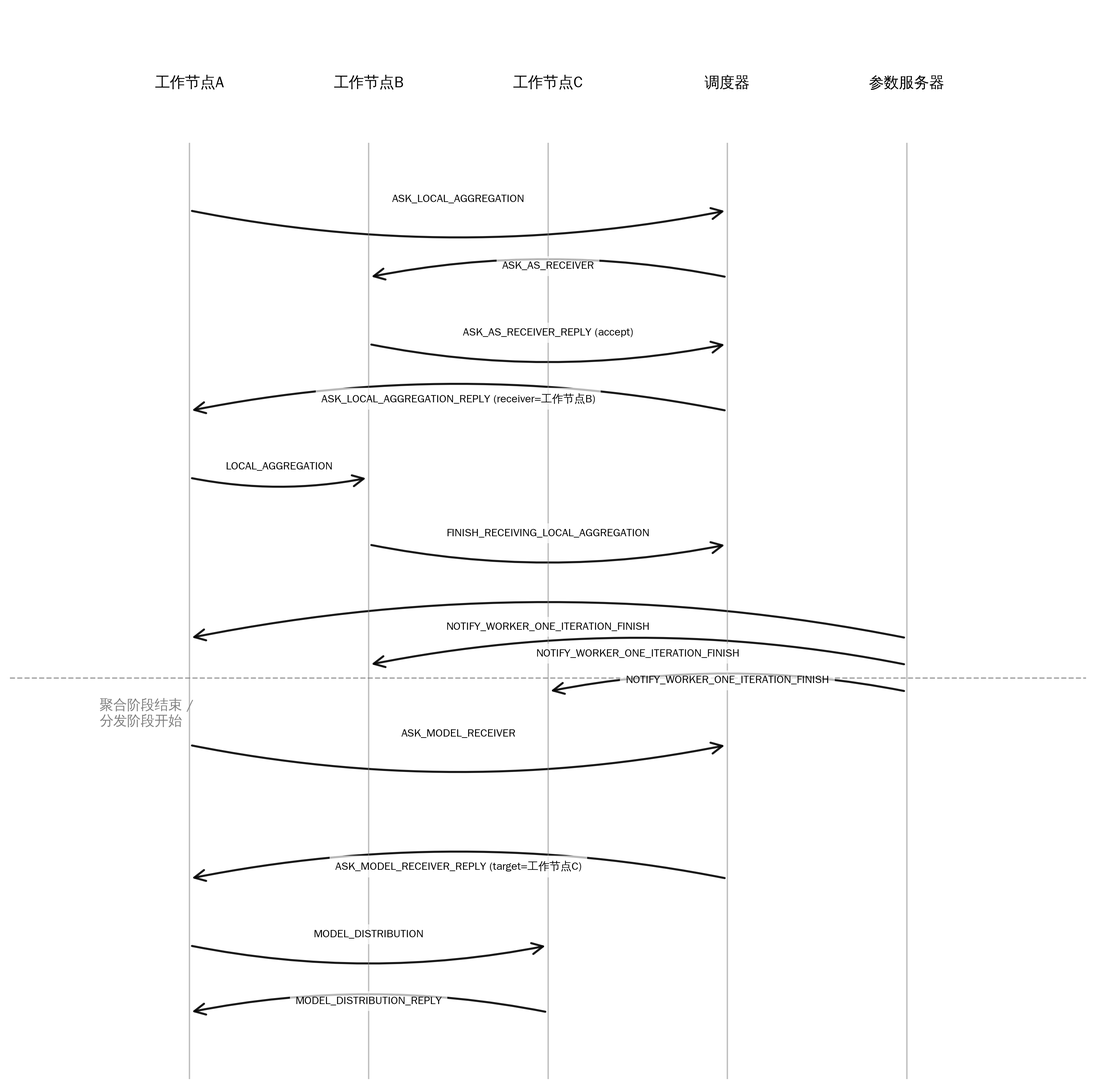
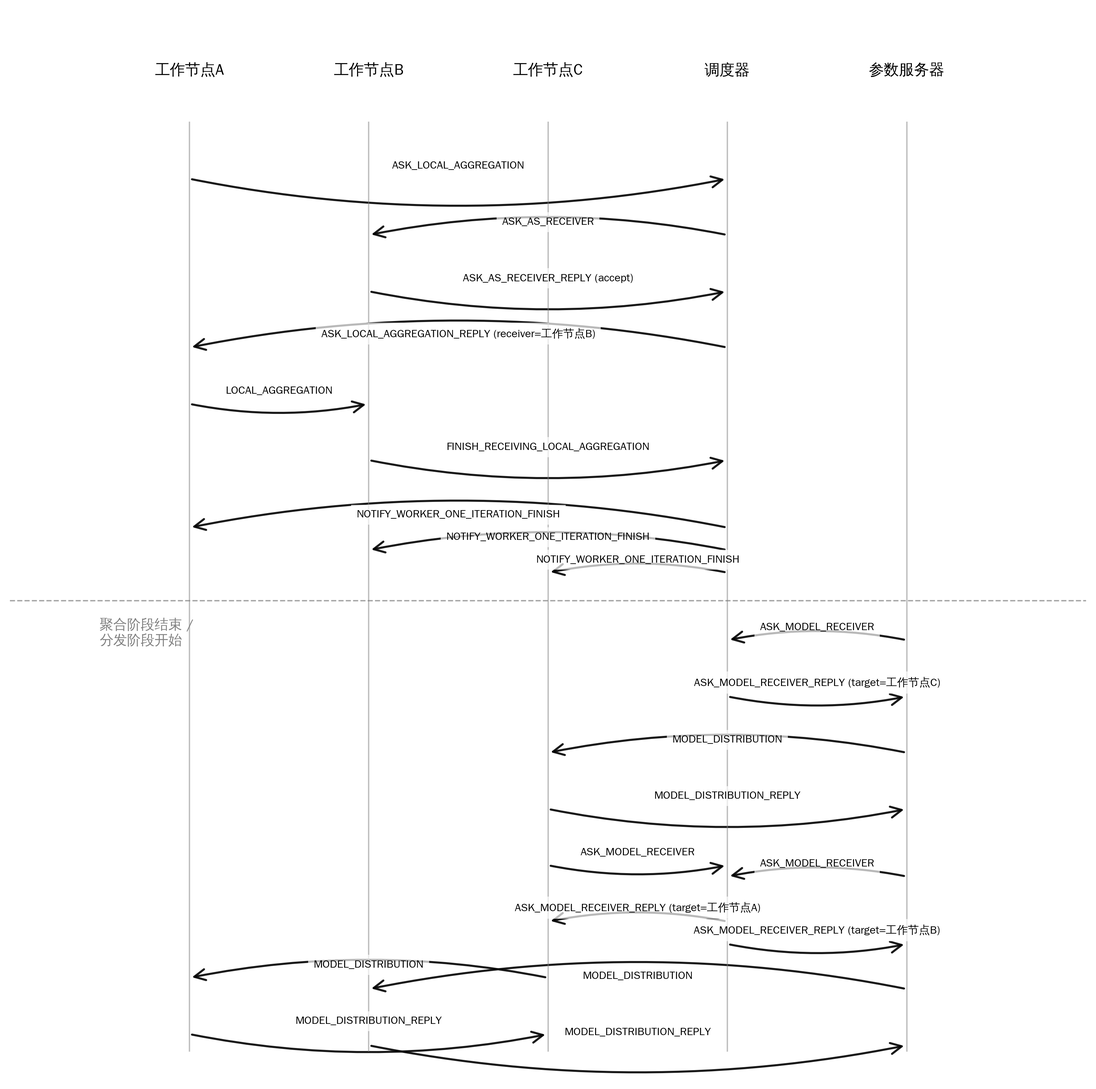
chore

diff --git a/tutorial.tex b/tutorial.tex
@@ -110,11 +110,11 @@
 	\nomchn{GDPR}{General Data Protection Regulation}{通用数据保护条例}
 	\nomchn{CCPA}{California Consumer Privacy Act}{加州消费者隐私法案}
 
-	随着人工智能与大数据技术的快速发展，机器学习模型在医疗、金融与工业互联网等领域得到广泛应用。近年来的研究与工程实践表明，模型性能的持续提升通常依赖于更大规模的模型参数与更丰富的训练数据，这使得模型训练在计算、存储与时间成本方面的需求显著增长。面对参数量与数据规模持续扩张的趋势，单机训练逐渐难以满足算力、显存与训练时长等方面的要求。在此背景下，分布式机器学习通过在多计算节点之间进行并行计算与资源协同，以提升训练吞吐并缩短迭代周期，已成为训练大规模模型的重要技术路径。然而，传统分布式训练在很多场景下仍需在节点间传输原始数据、特征或中间表示，在跨域协作时难以避免数据隐私泄露与合规风险。
+	随着人工智能与大数据技术的快速发展，机器学习在医疗、金融与工业互联网等领域得到广泛应用。近年来的研究与工程实践表明，模型性能的持续提升通常依赖于更大的模型与更丰富的训练数据，这使得模型训练在计算、存储与时间成本方面的需求显著增长。面对参数量与数据规模持续扩张的趋势，单机训练逐渐难以满足算力、显存与训练时长等方面的要求。在此背景下，分布式机器学习通过在多计算节点之间进行并行计算与资源协同，以提升训练吞吐并缩短迭代周期，已成为训练大规模模型的重要技术路径。然而，传统分布式训练在很多场景下仍需在节点间传输原始数据、特征或中间表示，在跨域协作时难以避免数据隐私泄露与合规风险。
 
 	为应对日益严格的数据隐私保护与数据合规要求，联邦学习（FL）应运而生。FL是一种面向隐私保护的分布式学习范式，其核心思想是“数据不出本地”：各参与方在本地设备或机构内完成模型训练，仅与服务器（或其他参与方）交换模型更新（如梯度、权重或权重更新），并通过聚合机制实现全局模型迭代\cite{fedavg-fedsgd}。该范式在不直接共享原始数据的前提下支持跨机构、跨设备的协同学习，能够更好地满足数据合规约束，例如欧盟GDPR与CCPA等法规要求\cite{GDPR,CCPA}，并促进多方数据价值的安全释放。
 
-	尽管联邦学习在隐私保护方面具有优势，但其系统效率在很大程度上受限于通信效率。典型的联邦学习训练通常包含“本地训练——模型同步/聚合”的迭代流程；在跨设备联邦学习场景中，终端数量庞大且网络条件高度异构，模型更新需要通过蜂窝网络或Wi-Fi等无线网络进行传输。随着模型体量增大以及同步频率提升，通信带宽受限、网络时延、丢包与抖动等问题会显著增加每轮训练的同步开销，并进一步引发尾部时延放大、聚合等待时间增长、有效吞吐下降等现象，从而降低整体训练效率并影响收敛稳定性。因此，在保证模型精度与收敛性的前提下，如何有效降低通信开销、提升通信阶段的鲁棒性与可扩展性，已成为联邦学习与分布式机器学习落地应用中的关键挑战之一。
+	尽管联邦学习在隐私保护方面具有优势，但其系统效率在很大程度上受限于通信效率。典型的联邦学习训练通常包含“本地训练——模型聚合/同步”的迭代流程；在跨设备联邦学习场景中，终端数量庞大且网络条件高度异构，模型更新需要通过蜂窝网络或Wi-Fi等无线网络进行传输。随着模型体量增大以及同步频率提升，通信带宽受限、网络时延、丢包与抖动等问题会显著增加每轮训练的同步开销，并进一步引发尾部时延放大、聚合等待时间增长、有效吞吐下降等问题，从而降低整体训练效率并影响收敛耗时的稳定性。因此，在保证模型精度与收敛性的前提下，如何有效降低通信开销、提升通信阶段的鲁棒性与可扩展性，已成为联邦学习与分布式机器学习落地应用中的关键挑战之一。
 
 	针对上述问题，开展面向联邦学习的高效通信机制与网络流量调度策略研究具有重要意义。一方面，通信算法层面的改进（例如参数压缩、量化、稀疏化与误差反馈等）能够减少每轮迭代的传输数据量，从而降低总通信开销并缓解带宽压力。另一方面，仅依赖“减少数据量”往往不足以应对真实系统中的动态网络环境：终端设备的带宽、时延与在线状态随时间变化，且不同节点在算力与能耗约束方面存在显著差异。因此，有必要进一步研究自适应通信调度策略，即根据网络状态与节点负载的在线观测或历史统计信息，动态决定“谁参与、何时同步、传输多少、如何分配带宽/选择链路、以及如何协调聚合节奏”等关键决策。其目标在于降低达到目标精度的训练时延，提升系统吞吐，并增强训练过程的稳定性与鲁棒性。
 
@@ -188,7 +188,7 @@
 
 	\subsection{FedAvg}
 
-	FedAvg是联邦学习中最具代表性的基线算法之一，其核心思想是通过增加本地训练步数来降低全局同步频率：工作节点在本地执行多步SGD更新后，再将本地模型参数（或参数差分）上传至参数服务器进行聚合\cite{fedavg-fedsgd}。相较于FedSGD，FedAvg以“更多本地计算换取更少通信”的方式显著减少通信开销。
+	FedAvg是联邦学习中最具代表性的算法之一，其核心思想是通过增加本地训练步数来降低全局同步频率：工作节点在本地执行多步SGD更新后，再将本地模型参数（或参数差分）上传至参数服务器进行聚合\cite{fedavg-fedsgd}。相较于FedSGD，FedAvg以“更多本地计算换取更少通信”的方式显著减少通信开销。
 
 	沿用与FedSGD相同的符号体系：设第$t$轮全局模型为$W_t$，工作节点$k$的本地数据量为$n_k$，总数据量$n=\sum_{k=1}^{N}n_k$。节点$k$基于本地数据集$\mathcal{D}_k$从$W_t$出发执行$K$步随机梯度下降，得到更新后的本地模型参数$w_{t+1}^{(k)}$。FedAvg的训练流程可概括为：
 
@@ -292,7 +292,7 @@
 
 	针对上述问题，本章首先分析TCP拥塞控制在DML和FL场景中的局限性，指出现有机制难以适配同步通信模式。随后，本文在应用层（TCP上层）设计并实现一种轻量级拥塞控制算法。该算法以模型聚合的端到端完成时间为反馈信号，动态调整每个节点允许同时接收数据的节点数量（即并发接收数）。通过将拥塞控制提升至应用层，算法能够直接感知训练迭代的同步边界，并利用历史聚合时间的统计信息进行自适应调节，从而在避免网络拥塞的同时最大化通信效率。
 
-	本章内容组织如下：\ref{sec:tcp-problems}节介绍TCP拥塞控制在DML和FL中存在的问题；\ref{sec:tcp-solution}节阐述如何在TCP上层实现拥塞控制；\ref{sec:tcp-experiments}节通过对比实验评估本方法的有效性；最后，\ref{sec:tcp-summary}节对本章进行小结。
+	本章内容组织如下：\ref{sec:tcp-problems}节介绍TCP拥塞控制在DML和FL中存在的问题；\ref{sec:tcp-solution}节阐述如何在TCP上层实现拥塞控制；\ref{sec:tcp-experiments}节和\ref{sec:tcp-experiments-analysis}通过对比实验评估本方法的有效性；最后，\ref{sec:tcp-summary}节对本章进行小结。
 
 	\section{DML和FL中TCP拥塞控制问题概述}
 	\label{sec:tcp-problems}
@@ -505,7 +505,7 @@
 
 	\begin{itemize}
 		\item \textbf{实验A}：使用原始TCP传输，工作节点收到全局模型后立即开始上传更新。该设置模拟理想计算速度，旨在引发最大程度的网络拥塞。
-		\item \textbf{实验B}：工作节点在收到全局模型后，随机等待0～10s再开始上传，模拟实际训练中计算时间的不确定性，且保证不同实验每轮等待时间分布一致。该设置使发送流量分散，减轻拥塞。
+		\item \textbf{实验B}：工作节点在收到全局模型后，随机等待0～10秒再开始上传，模拟实际训练中计算时间的不确定性，且保证不同实验每轮等待时间分布一致。该设置使发送流量分散，减轻拥塞。
 		\item \textbf{实验C}：在实验A的基础上，服务器端启用本章提出的上层拥塞控制算法，动态调整并发接收数$R$。
 		\item \textbf{实验D}：在实验B的基础上启用本章算法，检验算法在计算时间随机波动场景下的适应性。
 	\end{itemize}
@@ -523,7 +523,7 @@
 	该指标直接对应训练过程从第一个节点开始发送到最后一个节点完成接收的实际经过时间，即训练的最终耗时。在对比实验中，$T_{\text{total}}$越小，表示通信加速效果越显著，整体训练效率越高。
 
 	\section{实验结果与分析}
-	\label{sec:tcp-experiments}
+	\label{sec:tcp-experiments-analysis}
 
 	\subsection{聚合时间对比}
 
@@ -555,15 +555,15 @@
 	从图\ref{fig:congestion}和表\ref{tab:stats}可以得出以下观察：
 
 	\begin{itemize}
-		\item \textbf{突发拥塞的影响}：实验A表现出剧烈的聚合时间波动，最大值达240.899s，标准差高达32.925。这是由于50个节点同时发送240MB数据，引发TCP拥塞控制频繁触发，窗口震荡导致部分节点传输严重延迟。
-		\item \textbf{随机延迟的缓解作用}：实验B通过引入随机等待，分散了发送流量，平均聚合时间降至134.276s，峰值也显著减小。这说明在原始方法中，延迟发送对通信效率有积极影响。
-		\item \textbf{本文算法的有效性}：实验C将平均聚合时间压缩至109.938s，降低为实验A的78.47\%，且标准差仅为22.744，稳定性大幅提升。算法通过动态调整并发接收数$R$，避免了瞬时过载，同时充分利用带宽。
-		\item \textbf{适应性验证}：实验D的平均聚合时间为110.026s，较实验B（134.276s）下降约18.06\%，且标准差仅为21.707，波动最小。实验D的总耗时（11545.293s）略高于实验C（11012.577s），这是由于实验D中引入了0～10s的随机等待延迟，这些等待时间累积导致总耗时的增加。但相较于实验B（14085.684s），实验D仍降低了约18.01\%，证明了算法在节点完成时间存在波动时，仍能有效缓解拥塞，显著提升通信效率。
+		\item \textbf{突发拥塞的影响}：实验A表现出剧烈的聚合时间波动，最大值达240.899秒，标准差高达32.925。这是由于50个节点同时发送240MB数据，引发TCP拥塞控制频繁触发，窗口震荡导致部分节点传输严重延迟。
+		\item \textbf{随机延迟的缓解作用}：实验B通过引入随机等待，分散了发送流量，平均聚合时间降至134.276秒，峰值也显著减小。这说明在原始方法中，延迟发送对通信效率有积极影响。
+		\item \textbf{本文算法的有效性}：实验C将平均聚合时间压缩至109.938秒，降低为实验A的78.47\%，且标准差仅为22.744，稳定性大幅提升。算法通过动态调整并发接收数$R$，避免了瞬时过载，同时充分利用带宽。
+		\item \textbf{适应性验证}：实验D的平均聚合时间为110.026秒，较实验B（134.276秒）下降约18.06\%，且标准差仅为21.707，波动最小。实验D的总耗时（11545.293秒）略高于实验C（11012.577秒），这是由于实验D中引入了0～10秒的随机等待延迟，这些等待时间累积导致总耗时的增加。但相较于实验B（14085.684秒），实验D仍降低了约18.01\%，证明了算法在节点完成时间存在波动时，仍能有效缓解拥塞，显著提升通信效率。
 	\end{itemize}
 
 	\subsection{累积分布分析}
 
-	图\ref{fig:congestion_cdf}展示了四组实验聚合时间的累积分布函数（CDF）。从图中可见，实验C和D的曲线整体左移，且更为陡峭，表明其聚合时间稳定在较低区间。例如，实验C中90\%的轮次聚合时间低于150s，而实验A中仅不到70\%达到该水平。
+	图\ref{fig:congestion_cdf}展示了四组实验聚合时间的累积分布函数（CDF）。从图中可见，实验C和D的曲线整体左移，且更为陡峭，表明其聚合时间稳定在较低区间。例如，实验C中90\%的轮次聚合时间低于150秒，而实验A中仅不到70\%的轮次达到该水平。
 
 	\begin{figure}[htbp]
 		\centering
@@ -578,7 +578,7 @@
 
 	\subsection{收敛速度影响}
 
-	虽然本实验未包含模型准确度，但聚合时间的缩短直接加速了每轮迭代，从而缩短整体训练时间。以100轮为例，实验C总聚合时间约为11012.577s，实验A则需14098.513s，仅用原耗时的78.11\%。在实际训练中，若计算时间占比较大，收益可能略有下降，但通信加速仍能带来明显收益。
+	虽然本实验未包含模型准确度，但聚合时间的缩短直接加速了每轮迭代，从而缩短整体训练时间。以100轮为例，实验C总聚合时间约为11012.577秒，实验A则需14098.513秒，仅用原耗时的78.11\%。在实际训练中，若计算时间占比较大，收益可能略有下降，但通信加速仍能带来明显收益。
 
 	\section{本章小结}
 	\label{sec:tcp-summary}
@@ -588,8 +588,8 @@
 	为验证算法有效性，设计了四组对比实验，涵盖有无计算延迟两种场景。实验结果表明：
 
 	\begin{itemize}
-		\item 在无计算延迟的极端突发流量下（实验A vs. 实验C），本文算法将平均聚合时间从140.107s降至109.938s（降低21.5\%），标准差从32.925降至22.744（降低30.9\%），总耗时减少21.9\%，显著缓解了TCP拥塞控制引发的性能抖动。
-		\item 在有计算延迟的实际场景中（实验B vs. 实验D），算法仍能将平均聚合时间降低18.1\%，总耗时降低18.0\%，且波动最小，展现了良好的适应性。
+		\item 在无计算延迟的极端突发流量下（实验A vs. 实验C），本文算法将平均聚合时间从140.107秒降至109.938秒（降低21.53\%），标准差从32.925降至22.744（降低30.92\%），总耗时减少21.89\%，显著缓解了TCP拥塞控制引发的性能抖动。
+		\item 在有计算延迟的实际场景中（实验B vs. 实验D），算法仍能将平均聚合时间降低18.06\%，总耗时降低18.04\%，且波动最小，展现了良好的适应性。
 		\item 算法本身计算开销极小（每轮不足0.1ms），内存占用低，具备实用性和可扩展性。
 	\end{itemize}
 
@@ -611,7 +611,7 @@
 
 	该方法具有高度灵活性：即使集群中仅增加一条工作节点间的通信链路，也能获得性能提升；随着链路增多，性能可逐步逼近全连接拓扑的理想情况。实验表明，在典型配置下，即使构建稀疏的节点间通信拓扑，也能显著降低服务器负载、缩短聚合时间，且收益随链路数量增加而递增，但并非必须全连接才能取得显著效果。
 
-	本章内容组织如下：\ref{sec:star-dml-fl}节分析传统星型架构的通信瓶颈，并阐述引入节点间通信的动机；\ref{sec:extension-network-topo}节详细介绍网络拓扑扩展的具体设计，包括局部聚合与协作分发的算法；\ref{diff-from-decentralisation}介绍了LeMethod和去中心化架构的区别；最后，\ref{sec:topo-extension-summary}节对本章进行小结。
+	本章内容组织如下：\ref{sec:star-dml-fl}节分析传统星型架构的通信瓶颈，并阐述引入节点间通信的动机；\ref{sec:extension-network-topo}节详细介绍网络拓扑扩展的具体设计，包括局部聚合与协作分发的算法；最后，\ref{sec:topo-extension-summary}节对本章进行小结。
 
 	\section{星形架构下的DML和FL}
 	\label{sec:star-dml-fl}
@@ -722,7 +722,6 @@
 	这些问题的解决依赖于动态调度算法的设计，将在下一章详细阐述。
 
 	\subsection{与去中心化架构的区别}
-	\label{diff-from-decentralisation}
 
 	本文提出的 LeMethod 虽然在模型聚合与分发阶段引入了工作节点间的直接通信，但在本质上仍属于\textbf{中心化架构}的范畴，与完全去中心化的分布式训练架构存在根本区别。明确这一差异有助于理解 LeMethod 的设计定位与优势。
 
@@ -841,7 +840,7 @@
 			\texttt{ASK\_LOCAL\_AGGREGATION\_REPLY} & 调度器将最终确定的接收者告知请求节点 \\
 			\texttt{LOCAL\_AGGREGATION} & 节点向接收者发送本地数据 \\
 			\texttt{FINISH\_RECEIVING\_LOCAL\_AGGREGATION} & 接收节点完成数据接收后通知调度器 \\
-			\texttt{NOTIFY\_WORKER\_ONE\_ITERATION\_FINISH} & 服务器收齐所有数据后，通知工作节点更新元数据 \\
+			\texttt{NOTIFY\_WORKER\_ONE\_ITERATION\_FINISH} & 服务器收齐所有数据后，调度器通知工作节点更新元数据 \\
 			\texttt{ASK\_MODEL\_RECEIVER} & 节点收到新模型后，向调度器请求下一分发目标 \\
 			\texttt{ASK\_MODEL\_RECEIVER\_REPLY} & 调度器返回分发目标 \\
 			\texttt{MODEL\_DISTRIBUTION} & 节点向目标发送模型数据 \\
@@ -965,7 +964,7 @@
 	\end{itemize}
 	这种设计保证了节点在单轮中最多扮演一种角色（发送者或接收者），简化了状态管理，避免了复杂的并发冲突。
 
-	当接收节点拒绝时，调度器优先尝试将接收者改为参数服务器（ID为0），因为服务器通常具有较高的处理能力，且作为最终汇聚点必须接收所有数据。若服务器当前并发接收数已达上限 $R_{\max}$，则无法使用；此时，调度器将请求节点 $r$ 重新加入未完成集合 $\mathcal{U}$，等待下一轮调度。若使用服务器成功，则更新服务器的并发计数。
+	当接收节点拒绝时，调度器优先尝试将接收者改为参数服务器，因为服务器通常具有较高的处理能力，且作为最终汇聚点必须接收所有数据。若服务器当前并发接收数已达上限 $R_{\max}$，则无法使用；此时，调度器将请求节点 $r$ 重新加入未完成集合 $\mathcal{U}$，等待下一轮调度。若使用服务器成功，则更新服务器的并发计数。
 
 	\paragraph{工作节点与参数服务器的行为}
 	为完整描述系统，还需明确各节点的职责：
@@ -1188,9 +1187,9 @@
 	所有实验运行于同一集群环境，每个节点配置如下：
 	\begin{itemize}
 		\item 操作系统：Ubuntu 20.04
-		\item CPU：单核心（限制为1核）
+		\item CPU：单核心（限制）
 		\item 内存：2 GB（限制）
-		\item 网络：节点间链路带宽在 $[x, y]$ 范围内周期性波动（模拟真实网络变化）
+		\item 网络：节点间链路带宽在 $[80, 240]$ MBps 范围内周期性波动（模拟真实网络变化）
 	\end{itemize}
 
 	实验采用典型的参数服务器架构，包含1个参数服务器和若干工作节点。模型大小默认为240 MB（除模型大小递增实验外），每轮实验共进行100轮迭代。定义第 $i$ 轮聚合时间为：
@@ -1259,7 +1258,7 @@
 
 	图\ref{fig:cdf_combined_nodes}展示了部分节点数下四组实验聚合时间的累积分布函数（CDF）。从图中可见，LeMethod的曲线明显左移，且随节点数增加曲线愈发陡峭，表明其聚合时间稳定在较低区间。
 
-	表\ref{tab:scale_nodes}列出了部分节点数下的总耗时数值。LeMethod在静态组中平均降低耗时约67.4\%，动态组中平均降低约65.2\%。
+	表\ref{tab:scale_nodes}列出了部分节点数下的总耗时数值。LeMethod在静态组中平均降低耗时约67.38\%，动态组中平均降低约65.23\%。
 
 	\begin{figure}[htbp]
 		\centering
@@ -1270,7 +1269,7 @@
 
 	\begin{table}[htbp]
 		\centering
-		\caption{不同节点数下的总耗时（单位：秒）}
+		\caption{不同节点数下的总耗时及降低百分比（单位：秒）}
 		\label{tab:scale_nodes}
 		\begin{tabular}{|c|c|c|c|c|c|c|}
 			\hline
@@ -1315,13 +1314,13 @@
 	图\ref{fig:scale_model}展示了不同模型大小下的总耗时对比。可以看出：
 	\begin{itemize}
 		\item 原始方法中，随着模型尺寸增加，总耗时近似线性增长，且增速较快。例如，模型从240 MB增至1000 MB时，原始静态组耗时从14098秒增长至61092秒，增加了约4.3倍。
-		\item LeMethod在所有模型尺寸下均显著降低总耗时，且随模型增大优势愈发明显。例如在1000 MB时，LeMethod静态组耗时仅13778秒，较原始静态组降低了77.4\%，体现了对大规模模型传输的良好适应性。
+		\item LeMethod在所有模型尺寸下均显著降低总耗时，且随模型增大优势愈发明显。例如在1000 MB时，LeMethod静态组耗时仅13777.630秒，较原始静态组降低了77.44\%，体现了对大规模模型传输的良好适应性。
 		\item 静态组与动态组的降低幅度相近，说明算法对计算时间的随机波动不敏感，能在不同负载模式下保持高效。
 	\end{itemize}
 
 	图\ref{fig:cdf_combined_size}展示了部分模型大小下四组实验聚合时间的累积分布。从图中可见，LeMethod的曲线明显左移，表明其聚合时间稳定在较低区间。
 
-	表\ref{tab:scale_model}给出了部分数据点的总耗时。LeMethod在静态组中平均降低耗时约76.8\%，动态组中平均降低约77.3\%。
+	表\ref{tab:scale_model}给出了部分数据点的总耗时。LeMethod在静态组中平均降低耗时约76.83\%，动态组中平均降低约77.32\%。
 
 	\begin{figure}[htbp]
 		\centering
@@ -1332,11 +1331,11 @@
 
 	\begin{table}[htbp]
 		\centering
-		\caption{不同模型大小下的总耗时（单位：秒）}
+		\caption{不同模型大小下的总耗时及降低百分比（单位：秒）}
 		\label{tab:scale_model}
 		\begin{tabular}{|c|c|c|c|c|c|c|}
 			\hline
-			\textbf{模型大小（MB）} & \textbf{原始静态} & \textbf{LeMethod静态} & \textbf{降低百分比} & \textbf{原始动态} & \textbf{LeMethod动态} & \textbf{降低百分比} \\
+			\textbf{模型（MB）} & \textbf{原始静态} & \textbf{LeMethod静态} & \textbf{降低百分比} & \textbf{原始动态} & \textbf{LeMethod动态} & \textbf{降低百分比} \\
 			\hline
 			240   & 14098.513 & 3290.089 & 76.66\% & 14085.684 & 3495.003 & 75.19\% \\
 			500   & 30393.863 & 6889.605 & 77.33\% & 30951.300 & 6805.027 & 78.02\% \\
@@ -1376,12 +1375,12 @@
 
 	从图表中可以看出：
 	\begin{itemize}
-		\item 随着链路比例增加，总耗时单调下降，但下降速度逐渐减缓。例如，静态组在10\%链路时总耗时为4240.68秒，较原始降低约69.9\%；当链路比例增至50\%时，总耗时为3552.37秒，降低约74.8\%；而到100\%全连接时，总耗时进一步降至3290.09秒，降低约76.7\%。这表明少量链路即可带来大部分收益，无需追求全连接。
-		\item 静态组对链路比例更敏感：从10\%到100\%，静态组总耗时下降了约22.4\%（从4240.68秒降至3290.09秒），而动态组下降约22.1\%（从4488.73秒降至3495.00秒），且静态组在各比例下的耗时普遍低于动态组，说明突发流量更依赖节点间带宽来分散压力。
-		\item 即使在10\%链路（约123条）的情况下，LeMethod仍显著优于原始方法：静态组降低69.9\%，动态组降低68.1\%，充分证明了拓扑扩展的有效性。随着链路增加，收益逐渐趋近于全连接时的最优值（静态76.7\%，动态75.2\%）。
+		\item 随着链路比例增加，总耗时单调下降，但下降速度逐渐减缓。例如，静态组在10\%链路时总耗时为4240.68秒，较原始降低约69.92\%；当链路比例增至50\%时，总耗时为3552.37秒，降低约74.81\%；而到100\%全连接时，总耗时进一步降至3290.09秒，降低约76.67\%。这表明少量链路即可带来大部分收益，无需追求全连接。
+		\item 静态组对链路比例更敏感：从10\%到100\%，静态组总耗时下降了约22.42\%（从4240.68秒降至3290.09秒），而动态组下降约22.14\%（从4488.73秒降至3495.00秒），且静态组在各比例下的耗时普遍低于动态组，说明突发流量更依赖节点间带宽来分散压力。
+		\item 即使在10\%链路（约123条）的情况下，LeMethod仍显著优于原始方法：静态组降低69.92\%，动态组降低68.14\%，充分证明了拓扑扩展的有效性。随着链路增加，收益逐渐趋近于全连接时的最优值（静态76.67\%，动态75.19\%）。
 	\end{itemize}
 
-	表\ref{tab:sparse}中的数据进一步表明，LeMethod在静态组中平均降低耗时约75.7\%，在动态组中平均降低约74.8\%，与全连接时的最优值非常接近，说明即使稀疏拓扑也能获得绝大部分收益。
+	表\ref{tab:sparse}中的数据进一步表明，LeMethod在静态组中平均降低耗时约75.59\%，在动态组中平均降低约74.54\%，与全连接时的最优值非常接近，说明即使稀疏拓扑也能获得绝大部分收益。
 
 	\begin{figure}[htbp]
 		\centering
@@ -1420,11 +1419,11 @@
 
 	\subsection{算法有效性分析}
 
-	从工作节点数实验（图\ref{fig:scale_nodes}、表\ref{tab:scale_nodes}）可以看出，LeMethod在静态和动态场景下分别平均降低总耗时67.4\%和65.2\%。随着节点数增加，原始方法的总耗时近似线性增长，而LeMethod增长极为平缓，展现出优异的可扩展性。这得益于算法通过局部聚合和协作分发将服务器单点压力分散至集群，同时动态调度避免了TCP拥塞控制引发的窗口震荡。
+	从工作节点数实验（图\ref{fig:scale_nodes}、表\ref{tab:scale_nodes}）可以看出，LeMethod在静态和动态场景下分别平均降低总耗时67.38\%和65.23\%。随着节点数增加，原始方法的总耗时近似线性增长，而LeMethod增长极为平缓，展现出优异的可扩展性。这得益于算法通过局部聚合和协作分发将服务器单点压力分散至集群，同时动态调度避免了TCP拥塞控制引发的窗口震荡。
 
-	模型大小实验（图\ref{fig:scale_model}、表\ref{tab:scale_model}）进一步验证了算法在大模型场景下的有效性：静态组平均降低76.8\%，动态组平均降低77.3\%，且优势随模型增大而扩大。当大模型传输占主导时，通信效率的提升直接转化为总耗时的降低，而原始方法因TCP重传与拥塞窗口缩减导致额外开销，LeMethod通过多路径并发与智能调度有效规避了这些问题。
+	模型大小实验（图\ref{fig:scale_model}、表\ref{tab:scale_model}）进一步验证了算法在大模型场景下的有效性：静态组平均降低76.83\%，动态组平均降低77.32\%，且优势随模型增大而扩大。当大模型传输占主导时，通信效率的提升直接转化为总耗时的降低，而原始方法因TCP重传与拥塞窗口缩减导致额外开销，LeMethod通过多路径并发与智能调度有效规避了这些问题。
 
-	拓扑稀疏性实验（图\ref{fig:sparse}、表\ref{tab:sparse}）表明，即使仅使用10\%的链路（约123条），LeMethod仍能降低总耗时约69.9\%（静态）和68.1\%（动态），接近全连接时的最优值（静态76.7\%，动态75.2\%）。这说明算法对链路数量不敏感，少量链路即可获得大部分收益，实际部署中无需追求全连接，从而降低了网络配置成本。
+	拓扑稀疏性实验（图\ref{fig:sparse}、表\ref{tab:sparse}）表明，即使仅使用10\%的链路（约123条），LeMethod仍能降低总耗时约69.92\%（静态）和68.14\%（动态），接近全连接时的最优值（静态76.67\%，动态75.19\%）。这说明算法对链路数量不敏感，少量链路即可获得大部分收益，实际部署中无需追求全连接，从而降低了网络配置成本。
 
 	\subsection{鲁棒性与适应性}
 
@@ -1441,8 +1440,8 @@
 	本章通过一系列对比实验，全面评估了LeMethod的性能。首先通过预实验确定了调度数量$S$与贪心概率$p$的最优取值，发现算法对$p$不敏感，易于调参。随后在不同工作节点数、不同模型大小以及不同链路比例下，将LeMethod与原始星型架构进行对比，得出以下结论：
 
 	\begin{itemize}
-		\item 在工作节点数实验中，LeMethod在静态和动态场景下分别平均降低总耗时67.4\%和65.2\%，且增长曲线平缓，展现出优异的可扩展性。
-		\item 在模型大小实验中，LeMethod在所有尺寸下均显著优于原始方法，静态组平均降低76.8\%，动态组平均降低77.3\%，优势随模型增大而扩大，体现对大规模模型传输的良好适应性。
+		\item 在工作节点数实验中，LeMethod在静态和动态场景下分别平均降低总耗时67.38\%和65.23\%，且增长曲线平缓，展现出优异的可扩展性。
+		\item 在模型大小实验中，LeMethod在所有尺寸下均显著优于原始方法，静态组平均降低76.83\%，动态组平均降低77.32\%，优势随模型增大而扩大，体现对大规模模型传输的良好适应性。
 		\item 在拓扑稀疏性实验中，即使仅使用10\%的链路，LeMethod仍能降低总耗时约70\%，接近全连接时的最优值，表明少量链路即可获得大部分收益，降低了网络部署成本。
 		\item 算法在静态与动态场景下表现稳定，对计算时间波动不敏感，具有良好的鲁棒性；与TCP拥塞控制的协同设计有效避免了节点过载。
 	\end{itemize}
